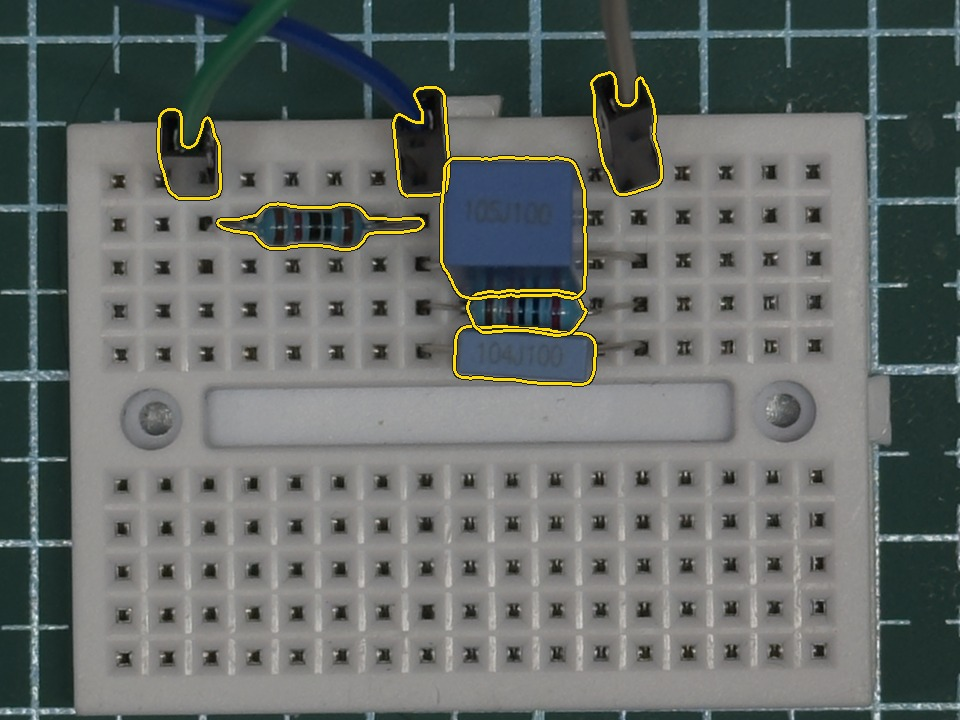
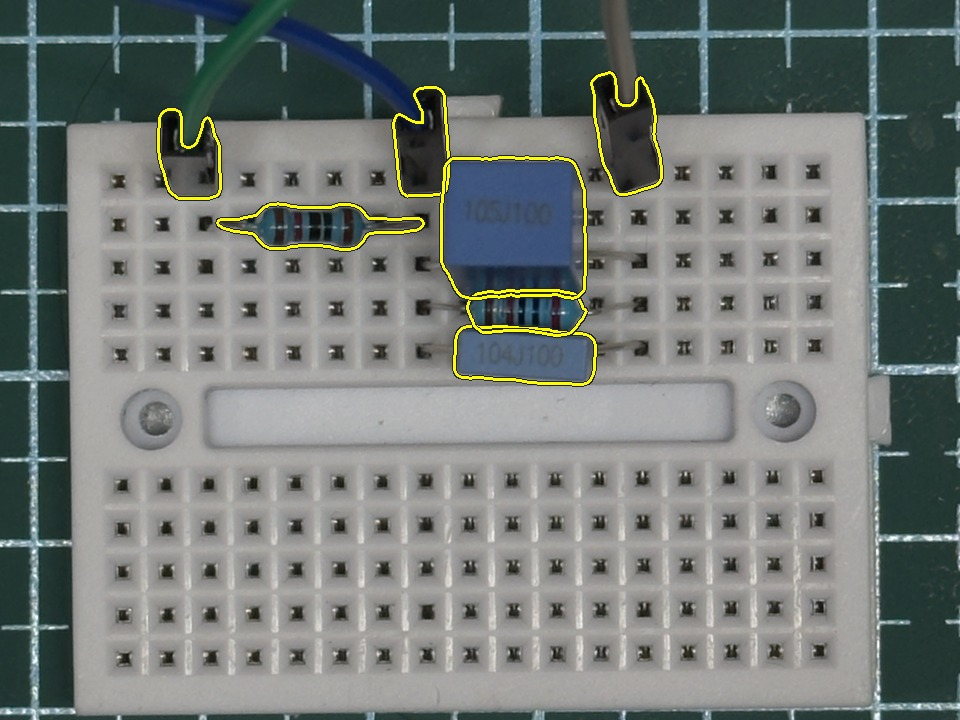
Deploy landing round 4 from 95f7793
Scoreboard strip, one block per case, The bench section, Built section; phone layout fix.

Claude-Session: https://claude.ai/code/session_016yJ6onsusv49FZT69Jxk9m

diff --git a/index.html b/index.html
@@ -13,13 +13,13 @@
 <body>
 <header class="bar">
   <a class="brand" href="index.html"><img src="assets/mark.svg" alt=""> BenchMate</a>
-  <nav><a href="#replays">Replays</a><a href="#cases">Cases</a><a href="#how" class="lng">How it works</a><a href="https://github.com/bami-codes/BenchMate">GitHub</a></nav>
+  <nav><a href="#cases">Cases</a><a href="#bench">The bench</a><a href="#how" class="lng">How it works</a><a href="#built">Built</a><a href="https://github.com/bami-codes/BenchMate">GitHub</a></nav>
 </header>
 
 <section class="claim claim-top" aria-label="What this is">
   <h1>The drawing is right. The board is right. <span class="wrong">The output is wrong.</span></h1>
-  <p>BenchMate finds where a real circuit disagrees with its schematic. Muse Spark reads the drawing and designs experiments on the real board until only one explanation is left.</p>
-  <div class="ctas"><a class="btn" id="cta-replay" href="run.html">Watch Spark find out why</a><a class="btn ghost" href="#cases" id="cta-cases">See the cases</a></div>
+  <p>BenchMate gives Muse Spark a real bench. It reads the schematic, chooses experiments on the real circuit, must forecast each one before an Arduino measures it, and keeps crossing out explanations until one is left. Five faults were planted on five boards and sealed; the model found where each board disagreed with its drawing, and every step is a record you can check.</p>
+  <div class="ctas"><a class="btn" id="cta-replay" href="run.html">Watch Spark find out why</a><a class="btn ghost" href="#cases" id="cta-cases">See the five cases</a></div>
 </section>
 
 <section class="hero" aria-label="The scope">
@@ -32,21 +32,86 @@
 
 <section class="claim claim-under"><div class="small" id="hero-caption" style="opacity:.9"></div></section>
 
-<section class="section" id="replays">
+<section class="section" id="score" hidden>
   <div class="paper">
-    <h2>Watch a diagnosis</h2>
-    <p class="lede">Recorded runs on the real bench, replayed from their logs in order. Before each measurement the dashed forecasts are drawn; then the measured trace sweeps over them and the needles move. Click any number for the log event behind it.</p>
-    <div class="cases" id="replay-list"></div>
+    <h2>Counted from the records</h2>
+    <p class="lede" id="score-note"></p>
+    <div class="score" id="score-grid"></div>
+    <p class="small muted" id="score-foot" style="margin-top:10px"></p>
   </div>
 </section>
 
 <section class="section" id="cases">
   <div class="paper">
-    <h2 id="cases-h">Cases from real forum threads</h2>
+    <h2 id="cases-h">Five cases from real forum threads</h2>
     <p class="small muted" id="cases-count"></p>
-    <p class="lede">Each case rebuilds a problem whose cause was settled in the thread, scaled to the bench: the first power-on moment, when the drawing is right and the board still misbehaves. Every case has its own circuit on the mini board and its own drawing; all use the same procedure, the same test menu and the same fixture.</p>
+    <p class="lede">Each case rebuilds a problem whose cause was settled in the thread, scaled to the bench: the first power-on moment, when the drawing is right and the board still misbehaves. Every case has its own circuit on the mini board and its own drawing; all use the same procedure, the same test menu and the same fixture. Each replay is a recorded run played back from its log in order: the dashed forecasts are drawn, then the measured trace sweeps over them and the needles move. Click any number for the log event behind it.</p>
     <div class="cases" id="case-list"></div>
+    <div id="dev-records"></div>
     <div id="policy" class="small muted" style="margin-top:12px"></div>
+  </div>
+</section>
+
+<section class="section" id="bench">
+  <div class="paper">
+    <h2>The bench</h2>
+    <p class="lede">One Arduino, two op-amp followers, a reference, and a mini board that holds the circuit under test. About $40 of parts. The model never touches it: it asks, the operator moves one jumper, the Arduino measures.</p>
+    <div class="bench-grid">
+      <figure class="bench-photo">
+        <img src="assets/photos/bench-full.jpg" alt="The whole bench from above: an Arduino UNO R4 Minima at the top right, the instrument breadboard with two LM358 followers across the middle, and the mini board under test at the bottom, all on a cutting mat" loading="lazy">
+        <figcaption class="small muted">The whole bench, photographed from above. Arduino UNO R4 Minima (top right), the instrument board (middle), the mini board under test (bottom). Brightened uniformly for the page; nothing else edited (<code>tools/photos-bench.json</code>).</figcaption>
+      </figure>
+      <div class="bench-side">
+        <div class="bench-diagram" aria-label="Signal chain of the bench">
+          <svg viewBox="0 0 760 300" role="img" aria-label="Signal chain: Muse Spark chooses; the engine forecasts; the Arduino drives IN through a follower and a 1 kΩ resistor, the mini board's OUT comes back through a follower to the ADC, REF is a buffered 1.63 V; the operator moves one jumper and takes one multimeter reading when asked.">
+            <defs><marker id="ar" viewBox="0 0 10 10" refX="9" refY="5" markerWidth="7" markerHeight="7" orient="auto-start-reverse"><path d="M0 0L10 5 0 10z" fill="#4b535a"/></marker></defs>
+            <g font-family="Archivo Narrow, Arial, sans-serif" font-size="13" fill="#171b1e">
+              <rect x="14" y="18" width="150" height="54" rx="6" fill="#efe8ff" stroke="#7a4fd6" stroke-width="1.5"/>
+              <text x="89" y="40" text-anchor="middle" font-weight="600">Muse Spark 1.3</text><text x="89" y="58" text-anchor="middle" font-size="12" fill="#4b535a">chooses the experiment</text>
+              <rect x="196" y="18" width="150" height="54" rx="6" fill="#f0f0ea" stroke="#171b1e" stroke-width="1.5"/>
+              <text x="271" y="40" text-anchor="middle" font-weight="600">Fit engine · ngspice</text><text x="271" y="58" text-anchor="middle" font-size="12" fill="#4b535a">forecast, hash, push</text>
+              <rect x="378" y="18" width="150" height="54" rx="6" fill="#e3ecf7" stroke="#2b6bdc" stroke-width="1.5"/>
+              <text x="453" y="40" text-anchor="middle" font-weight="600">Arduino UNO R4</text><text x="453" y="58" text-anchor="middle" font-size="12" fill="#4b535a">DAC out · 14-bit ADC in</text>
+              <rect x="560" y="18" width="186" height="54" rx="6" fill="#fff6d6" stroke="#c9a227" stroke-width="1.5"/>
+              <text x="653" y="40" text-anchor="middle" font-weight="600">Operator</text><text x="653" y="58" text-anchor="middle" font-size="12" fill="#4b535a">one jumper · one DMM reading, when asked</text>
+              <line x1="164" y1="45" x2="196" y2="45" stroke="#4b535a" stroke-width="1.5" marker-end="url(#ar)"/>
+              <line x1="346" y1="45" x2="378" y2="45" stroke="#4b535a" stroke-width="1.5" marker-end="url(#ar)"/>
+              <line x1="528" y1="45" x2="560" y2="45" stroke="#4b535a" stroke-width="1.5" stroke-dasharray="4 3" marker-end="url(#ar)"/>
+              <!-- analogue chain -->
+              <text x="14" y="118" font-size="12" fill="#4b535a" font-weight="600">Analogue chain, 0–5 V, USB power only</text>
+              <rect x="14" y="132" width="78" height="40" rx="5" fill="#fff" stroke="#171b1e" stroke-width="1.5"/><text x="53" y="151" text-anchor="middle" font-weight="600">DAC</text><text x="53" y="165" text-anchor="middle" font-size="11" fill="#4b535a">step or sine</text>
+              <polygon points="112,134 112,170 146,152" fill="#fff" stroke="#171b1e" stroke-width="1.5"/><text x="129" y="188" text-anchor="middle" font-size="11" fill="#4b535a">LM358</text>
+              <rect x="166" y="144" width="54" height="16" fill="#fff" stroke="#171b1e" stroke-width="1.5"/><text x="193" y="137" text-anchor="middle" font-size="11.5">1 kΩ</text>
+              <line x1="92" y1="152" x2="112" y2="152" stroke="#171b1e" stroke-width="1.5"/><line x1="146" y1="152" x2="166" y2="152" stroke="#171b1e" stroke-width="1.5"/><line x1="220" y1="152" x2="262" y2="152" stroke="#1f9a52" stroke-width="3"/>
+              <circle cx="248" cy="152" r="4" fill="#1f9a52"/><text x="248" y="140" text-anchor="middle" font-size="12" font-weight="600" fill="#1f9a52">IN</text>
+              <rect x="262" y="118" width="206" height="68" rx="6" fill="#f6f7f4" stroke="#8c939a" stroke-width="1.5" stroke-dasharray="5 4"/>
+              <text x="365" y="141" text-anchor="middle" font-weight="600">mini board under test</text><text x="365" y="159" text-anchor="middle" font-size="12" fill="#4b535a">the circuit the drawing shows,</text><text x="365" y="174" text-anchor="middle" font-size="12" fill="#4b535a">plus one sealed fault</text>
+              <line x1="468" y1="152" x2="520" y2="152" stroke="#2b6bdc" stroke-width="3"/><circle cx="482" cy="152" r="4" fill="#2b6bdc"/><text x="482" y="140" text-anchor="middle" font-size="12" font-weight="600" fill="#2b6bdc">OUT</text>
+              <polygon points="520,134 520,170 554,152" fill="#fff" stroke="#171b1e" stroke-width="1.5"/><text x="537" y="188" text-anchor="middle" font-size="11" fill="#4b535a">LM358</text>
+              <line x1="554" y1="152" x2="580" y2="152" stroke="#171b1e" stroke-width="1.5"/>
+              <rect x="580" y="132" width="78" height="40" rx="5" fill="#fff" stroke="#171b1e" stroke-width="1.5"/><text x="619" y="151" text-anchor="middle" font-weight="600">ADC</text><text x="619" y="165" text-anchor="middle" font-size="11" fill="#4b535a">512 frames / 0.5 ms</text>
+              <text x="705" y="148" font-size="11.5" fill="#4b535a">IN, OUT and</text><text x="705" y="162" font-size="11.5" fill="#4b535a">REF, every run</text>
+              <!-- REF -->
+              <line x1="365" y1="186" x2="365" y2="222" stroke="#8b949b" stroke-width="3"/>
+              <line x1="120" y1="222" x2="660" y2="222" stroke="#8b949b" stroke-width="3"/>
+              <circle cx="365" cy="222" r="4" fill="#8b949b"/>
+              <text x="120" y="244" font-size="12" font-weight="600" fill="#5b646b">REF · a buffered 1.63 V, not ground</text>
+              <text x="120" y="260" font-size="11.5" fill="#4b535a">the bench watches its own reference on every capture and stops the run if it drifts more than 3 mV</text>
+              <rect x="470" y="196" width="118" height="20" rx="4" fill="#fff" stroke="#8b949b" stroke-width="1.2" stroke-dasharray="4 3"/><text x="529" y="210" text-anchor="middle" font-size="11" fill="#4b535a">9.99 kΩ load, on request</text>
+              <text x="14" y="290" font-size="11.5" fill="#4b535a">Every explanation is a circuit model; the engine simulates it with the measured IN and forecasts OUT. A miss above 9 mV, whole step or any region, rules it out.</text>
+            </g>
+          </svg>
+        </div>
+        <dl class="kv small bench-kv">
+          <dt>Source</dt><dd>Arduino UNO R4 Minima DAC through an LM358 follower and a 1 kΩ drive resistor. Steps of ±0.2 / ±0.5 V and sines of 1–5 Hz, from a fixed menu Spark picks from.</dd>
+          <dt>Recorder</dt><dd>14-bit ADC, 512 frames per capture at 0.5 ms, three channels: IN, buffered OUT, REF. Captures are rejected across reboots; each run starts from a fresh boot id.</dd>
+          <dt>Reference</dt><dd>A buffered divider near 1.63 V is the return for the circuit under test. A guard checks it on every capture; a drift above 3 mV stops the run and nothing is scored.</dd>
+          <dt>Allowance</dt><dd>9 mV RMS between forecast and measurement, on the whole step and on every region of it. Frozen before the first run and never changed.</dd>
+          <dt>Operator</dt><dd>Connects or removes the 9.99 kΩ load when Spark asks, USB off; takes one multimeter reading when Spark asks; never tells the model what the fault is.</dd>
+          <dt>Cost</dt><dd>About ₩56,000 ($40) of parts including spares, plus a multimeter. <a href="https://github.com/bami-codes/BenchMate/blob/main/docs/build-your-own.md">Build notes</a>.</dd>
+        </dl>
+      </div>
+    </div>
   </div>
 </section>
 
@@ -71,20 +136,26 @@
   <div class="paper">
     <h2>Who does what</h2>
     <dl class="who">
-      <dt>Muse Spark 1.3 vision</dt><dd>Reads the schematic into parts, values and connections, with a box per part.</dd>
-      <dt>Muse Spark 1.3</dt><dd>Chooses every experiment from the fixed menu and says why; asks for the bench to be rewired; decides when to ask for the check; may propose a part the drawing lacks.</dd>
-      <dt>Fit engine, ngspice</dt><dd>Fits each explanation to the measurements and forecasts the next one. Compares forecasts with the bench by RMS miss.</dd>
-      <dt>Bench, Arduino UNO R4</dt><dd>Two LM358 buffers, a 1 kΩ drive resistor, a 1.63 V reference and four ADC channels. A reference guard stops a run when the bench itself drifts.</dd>
-      <dt>SAM 3.1 + Muse Spark vision</dt><dd>After the diagnosis: SAM 3.1 segments the mini board photo; Spark vision is asked which body is which drawn part, and a person confirms. When it names none (case 02), the bodies are read without a pairing and the bands frozen first decide which is which. No part values are read from the photo; values come from readings at the bench, forecast first.</dd>
+      <dt>Muse Spark 1.3 vision</dt><dd>Reads the schematic into parts, values and connections, with a box per part. After the diagnosis, looks at the board photo with SAM 3.1's bodies and says which body is the part to read (cases 01, 03, 05), or that it cannot tell (case 02).</dd>
+      <dt>Muse Spark 1.3 agent</dt><dd>Chooses every experiment from the fixed menu and says why; asks for the bench to be rewired; decides when to ask for the check; proposes a part the drawing lacks when every value explanation has failed (cases 04, 05); chooses which part to read and which quantity (cases 01, 02, 03, 05).</dd>
+      <dt>SAM 3.1</dt><dd>Segments the mini board photo into bodies with one generic prompt, after the diagnosis. Its masks are shown as drawn; no part value is read from the photo, ever.</dd>
+      <dt>Fit engine, ngspice</dt><dd>Fits each explanation to the measurements and forecasts the next one. Compares forecasts with the bench by RMS miss. Freezes and publishes before every scored measurement.</dd>
+      <dt>Bench, Arduino UNO R4</dt><dd>Two LM358 buffers, a 1 kΩ drive resistor, a 1.63 V reference and the ADC channels. A reference guard stops a run when the bench itself drifts.</dd>
+      <dt>Operator</dt><dd>Builds the circuit with the sealed fault, moves one jumper when asked, reads one value when asked, and never tells the model what is wrong.</dd>
     </dl>
   </div>
 </section>
 
-<section class="section" id="score" hidden>
+<section class="section" id="built">
   <div class="paper">
-    <h2>Counted from the records</h2>
-    <p class="lede" id="score-note"></p>
-    <div class="score" id="score-grid"></div>
+    <h2>Built during the hackathon</h2>
+    <p class="lede">Everything on this page was made between 27 October and 4 November 2026 by one person and two coding agents: the instrument firmware, the bench, the fit engine, the Spark tool loop, the reading and seal protocol, the photo stage, this site, and the five physical runs themselves. The first commit is the start of the project.</p>
+    <div class="built-grid">
+      <div><h3>Meta models</h3><p class="small">Muse Spark 1.3 (agent and vision) through the Meta Model API for every experiment choice, structure proposal, schematic read and body call; SAM 3.1 for every board segmentation. 101 Spark calls and 6 SAM calls across the five cases, about $1.01.</p></div>
+      <div><h3>What is new</h3><p class="small">The model is not asked to explain a measurement someone made. It designs the measurement, commits to its forecast first, and is scored by code against a fault it was never told. The experiments did not exist until the model asked for them.</p></div>
+      <div><h3>What is not claimed</h3><p class="small">Five completed cases are not an accuracy rate. Failed and abstained attempts are kept in the public ledger and named on the reports. Restored reruns show "no mismatch in the tests Spark chose", not a proof that every part is correct. The cases were known to the developers; this is not a blind test.</p></div>
+      <div><h3>Open</h3><p class="small">MIT-licensed repository with every event log, forecast hash, Spark request and verifier: <a href="https://github.com/bami-codes/BenchMate">github.com/bami-codes/BenchMate</a>. <code>python -m benchmate verify &lt;run folder&gt;</code> re-checks any record offline.</p></div>
+    </div>
   </div>
 </section>
 

diff --git a/assets/landing.js b/assets/landing.js
@@ -1,4 +1,4 @@
-// Landing: the claim, the scope, then the cases. Everything shown is read from data/.
+// Landing: the claim, the scope, the numbers, then the five cases with their recorded runs. Everything shown is read from data/.
 (async () => {
   const { $, el, expName, fmtUSD, fmtDate, schematic, boardSVG, Scope, stepTraces, stepTime, verdictWords, REDUCED, ev } = BM;
   const [cases, index, results, policy] = await Promise.all([BM.loadCases(), BM.loadRuns(), BM.loadResults(), BM.json('data/official-run-policy.json').catch(() => null)]);
@@ -42,51 +42,46 @@
     if (c01?.board) { $('#hero-board').append(boardSVG(c01.board, { crop: true })); $('#hero-board-note').textContent = 'Diagram from the wiring record; photo pending.'; }
   }
 
-  // ---- replays
-  const rl = $('#replay-list');
-  if (!runs.length) rl.append(el('p', { class: 'muted' }, 'No recorded runs yet.'));
-  const ordered = anyCounted ? [...runs.filter(r => r.counted), ...runs.filter(r => !r.counted)] : runs;
-  let devHead = false;
-  for (const r of ordered) {
-    if (anyCounted && !r.counted && !devHead) { devHead = true; rl.append(el('h3', { class: 'group-head' }, 'Development records'), el('p', { class: 'small muted' }, 'Pilots and QA runs that shaped the bench. Not counted, kept in full.')); }
-    const c = cases.cases.find(x => x.id === r.case);
-    const outcome = r.outcome === 'stopped' ? 'stopped by the reference guard' : r.display_caption ? r.display_caption : r.state === 'faulted' && r.survivors?.length === 1 ? (r.verdict === 'structure_supported' ? (r.reading === 'one' ? 'Spark proposed a part the drawing does not show; held-back checks passed; one reading, bands frozen first, placed it; seal opened' : 'Spark proposed a part the drawing does not show; held-back checks passed; seal opened') : r.reading === 'group' ? 'one explanation left after the tests; two readings, bands frozen first, fixed which body; seal opened' : 'one explanation left after one reading; seal opened') : r.verdict ? verdictWords({ verdict: r.verdict, survivors: r.survivors }, {}) : r.outcome;
-    rl.append(el('div', { class: 'case-row', style: 'grid-template-columns:40px minmax(0,1fr) auto' },
-      el('div', { class: 'n' }, r.case),
-      el('div', {}, el('h3', {}, c.title, ' ', el('span', { class: 'small muted' }, `· ${r.label}, ${fmtDate(r.started_utc)}`)),
-        el('p', { class: 'small muted' }, `${r.steps} experiments · ${r.spark_calls} Spark calls · ${fmtUSD(r.spark_cost)} est. · ${outcome}`)),
-      el('div', { class: 'acts' }, el('span', { class: 'badge ' + (r.counted ? 'live' : r.pilot ? 'pilot' : 'pending') }, r.class_label || (r.pilot ? 'Pilot run — not counted' : 'Counted run')),
-        el('a', { class: 'btn sm', href: `run.html?run=${r.id}` }, 'Replay'), el('a', { class: 'btn ghost sm', href: `case.html?id=${r.case}&run=${r.id}` }, 'Report'))));
-  }
-
-  // ---- cases: one verified forum line each, the preregistered order and selection rule
-  const cl = $('#case-list');
-  { const withRuns = cases.cases.filter(c => runs.some(r => r.case === c.id)).length; $('#cases-count').textContent = `${cases.cases.length} cases, ${withRuns} with recorded runs.`; }
-  const slotsOf = id => (policy?.ordered_slots || []).filter(s => s.case_id === id);
-  for (const c of cases.cases) {
-    const rs = runs.filter(r => r.case === c.id);
-    const thumb = el('div', { class: 'thumb' }); thumb.append(await schematic(c.design));
-    const counted = rs.filter(r => r.counted);
-    const status = counted.length ? el('span', { class: 'badge live' }, `${counted.length} counted run${counted.length > 1 ? 's' : ''}`) : rs.length ? el('span', { class: 'badge pilot' }, 'Pilot run — not counted') : el('span', { class: 'badge pending' }, 'Not run yet');
-    const slots = slotsOf(c.id);
-    cl.append(el('div', { class: 'case-row' },
-      el('div', { class: 'n' }, c.id), thumb,
-      el('div', {}, el('h3', {}, c.title), el('p', {}, c.symptom || c.problem), el('p', { class: 'src' }, 'Source: ', el('a', { href: c.source.url, target: '_blank', rel: 'noopener' }, `${c.source.site}: ${c.source.title}`), c.source.date ? `, ${c.source.date.slice(0, 7)}` : ''),
-        slots.length ? el('p', { class: 'small faint' }, `Official slots: ${slots.map(s => { const done = rs.find(r => r.counted && r.state === s.state); return `${s.slot_id} (${s.state}, ${done ? 'completed' : s.status.replace(/_/g, ' ')})`; }).join(', ')}${c.id === policy?.selection?.structure_spotlight?.priority?.[0]?.slice(0, 2) ? ' · structure-proposal spotlight, first priority' : c.id === policy?.selection?.structure_spotlight?.priority?.[1]?.slice(0, 2) ? ' · structure-proposal spotlight, second priority' : ''}`) : null),
-      el('div', { class: 'acts' }, status, rs.length ? el('a', { class: 'btn sm', href: `run.html?run=${BM.defaultRun(runs, c.id).id}` }, 'Replay') : null, el('a', { class: 'btn ghost sm', href: `case.html?id=${c.id}` }, 'Report'))));
-  }
-  if (policy) {
-    const shown = cases.cases.map(c => c.id); const order = (policy.case_order || []).filter(id => shown.includes(id));
-    $('#policy').append(el('p', {}, `The order of the cases and the demo selection rule were registered before any official result (${policy.cohort_plan_id}, ${policy.created_local_date}); the cases ran ${order.join(' → ')}, each a fault run then a restored rerun. ${policy.display_rule_2026_11_04 ? policy.display_rule_2026_11_04.text + ' ' : `each case page shows the first started official attempt for that state, whatever its outcome. ${policy.selection_rule ? policy.selection_rule + '. ' : ''}`}Where a restored attempt reached a verdict other than consistency, the counted later attempt is shown and the earlier one is named on the report. Case 01 was known to the developers and is not a blind test. Runs made while the pipeline was still being built are development records and are never counted.`));
-  }
-
-  // ---- verify box (short)
-  $('#verify-short').append(el('h3', {}, 'Verify it yourself'), el('p', { class: 'small muted' }, 'Every run is an append-only event log; each event carries its sha256 and the previous one. On any replay, click a number to see its event. In the repository, ', el('code', {}, 'python -m benchmate verify <run folder>'), ' prints PASS or FAIL and the number of events checked: the full hash chain, the frozen-forecast hashes and the forecast → measurement order, including the physical CAPTURE order. It proves the record’s internal integrity and order, not when it was written. Details: docs/2026-11-03-offline-verification.md.'));
-
   // ---- scoreboard: hidden until official result files exist
   if (results && results.official_runs?.length) {
     $('#score').hidden = false;
-    $('#score-note').textContent = `${results.official_runs.length} official runs, scored by code against the sealed faults. Updated ${fmtDate(results.updated_utc)}.`;
+    $('#score-note').textContent = `${results.official_runs.length} official runs on the real bench, scored by code against the sealed faults. Updated ${fmtDate(results.updated_utc)}.`;
     for (const m of results.metrics) $('#score-grid').append(el('div', { class: 'k' }, el('b', {}, m.value ?? '—'), el('span', {}, m.label)));
+    $('#score-foot').textContent = 'Counts, not a rate: every attempt is in the public ledger, including the ones that stopped, abstained or were miswired; the reports name them. Costs are estimates from recorded tokens at the published rates.';
   }
+
+  // ---- the cases: one row per case with its recorded runs (fault run, restored rerun), in case order
+  const cl = $('#case-list');
+  const counted = runs.filter(r => r.counted);
+  { const withRuns = cases.cases.filter(c => counted.some(r => r.case === c.id)).length; $('#cases-count').textContent = `${cases.cases.length} cases, ${withRuns} with official runs, ${counted.length} official runs in all.`; }
+  const outcomeLine = (r) => r.outcome === 'stopped' ? 'stopped by the reference guard' : r.display_caption ? r.display_caption : r.state === 'faulted' && r.survivors?.length === 1 ? (r.verdict === 'structure_supported' ? (r.reading === 'one' ? 'Spark proposed a part the drawing does not show; held-back checks passed; one reading, bands frozen first, placed it; seal opened' : 'Spark proposed a part the drawing does not show; held-back checks passed; seal opened') : r.reading === 'group' ? 'one explanation left after the tests; two readings, bands frozen first, fixed which body; seal opened' : 'one explanation left after one reading; seal opened') : r.verdict ? verdictWords({ verdict: r.verdict, survivors: r.survivors }, {}) : r.outcome;
+  const runLine = (r) => el('div', { class: 'run-line' },
+    el('a', { class: 'btn sm' + (r.state === 'restored' ? ' ghost' : ''), href: `run.html?run=${r.id}` }, r.state === 'restored' ? 'Restored rerun' : 'Replay the diagnosis'),
+    el('span', { class: 'small' }, el('b', {}, r.label), ` · ${fmtDate(r.started_utc)} · ${r.steps} experiments · ${r.spark_calls} Spark calls${r.sam_calls ? ` · ${r.sam_calls} SAM` : ''} · ${fmtUSD(r.spark_cost)} est.`, el('span', { class: 'muted' }, ` — ${outcomeLine(r)}`)),
+    el('a', { class: 'small rep', href: `case.html?id=${r.case}&run=${r.id}` }, 'Report'));
+  for (const c of cases.cases) {
+    const rs = counted.filter(r => r.case === c.id).sort((a, b) => a.started_utc < b.started_utc ? -1 : 1);
+    const thumb = el('div', { class: 'thumb' }); thumb.append(await schematic(c.design));
+    const status = rs.length ? el('span', { class: 'badge live' }, rs[0].class_label || 'Official run') : el('span', { class: 'badge pending' }, 'Not run yet');
+    cl.append(el('div', { class: 'case-row case-block' },
+      el('div', { class: 'n' }, c.id), thumb,
+      el('div', {}, el('h3', {}, c.title), el('p', {}, c.symptom || c.problem), el('p', { class: 'src' }, 'Source: ', el('a', { href: c.source.url, target: '_blank', rel: 'noopener' }, `${c.source.site}: ${c.source.title}`), c.source.date ? `, ${c.source.date.slice(0, 7)}` : ''),
+        el('div', { class: 'runs' }, ...rs.map(runLine))),
+      el('div', { class: 'acts' }, status)));
+  }
+  // development records: pilots and QA runs, not counted, kept in full
+  const dev = runs.filter(r => !r.counted);
+  if (anyCounted && dev.length) {
+    const box = $('#dev-records');
+    box.append(el('h3', { class: 'group-head' }, 'Development records'), el('p', { class: 'small muted' }, 'Pilots that shaped the bench before the pipeline was frozen. Not counted, kept in full.'));
+    for (const r of dev) { const c = cases.cases.find(x => x.id === r.case);
+      box.append(el('div', { class: 'run-line dev' }, el('a', { class: 'btn ghost sm', href: `run.html?run=${r.id}` }, 'Replay'), el('span', { class: 'small' }, el('b', {}, `Case ${r.case} · ${r.label}`), ` · ${fmtDate(r.started_utc)} · ${r.steps} experiments · ${r.spark_calls} Spark calls · ${fmtUSD(r.spark_cost)} est.`, el('span', { class: 'muted' }, ` — ${outcomeLine(r)}`)), el('span', { class: 'badge pilot' }, r.class_label || 'Pilot run — not counted'), el('a', { class: 'small rep', href: `case.html?id=${r.case}&run=${r.id}` }, 'Report'))); }
+  }
+  if (policy) {
+    const shown = cases.cases.map(c => c.id); const order = (policy.case_order || []).filter(id => shown.includes(id));
+    $('#policy').append(el('p', {}, `The order of the cases and the demo selection rule were registered before any official result (${policy.cohort_plan_id}, ${policy.created_local_date}); the cases ran ${order.join(' → ')}, each a fault run then a restored rerun. ${policy.display_rule_2026_11_04 ? policy.display_rule_2026_11_04.text + ' ' : `each case page shows the first started official attempt for that state, whatever its outcome. ${policy.selection_rule ? policy.selection_rule + '. ' : ''}`}Where a restored attempt reached a verdict other than consistency, the counted later attempt is shown and the earlier one is named on the report. The cases were known to the developers; this is not a blind test. Runs made while the pipeline was still being built are development records and are never counted.`));
+  }
+
+  // ---- verify box (short)
+  $('#verify-short').append(el('h3', {}, 'Verify it yourself'), el('p', { class: 'small muted' }, 'Every run is an append-only event log; each event carries its sha256 and the previous one. On any replay, click a number to see its event. In the repository, ', el('code', {}, 'python -m benchmate verify <run folder>'), ' prints PASS or FAIL and the number of events checked: the full hash chain, the frozen-forecast hashes and the forecast → measurement order, including the physical CAPTURE order. It proves the record’s internal integrity and order, not when it was written; the forecast commits on GitHub carry the time. Details: docs/2026-11-03-offline-verification.md.'));
 })();

diff --git a/assets/v3.css b/assets/v3.css
@@ -429,3 +429,21 @@ footer a{color:#fff}
 @media (max-width:480px){.assign-table{display:table;width:100%}.assign-table thead{display:none}.assign-table tr{display:block;padding:6px 0;border-bottom:1px solid var(--rule)}.assign-table td{display:block;padding:2px 0;border:0}}
 /* a label beside a body, outside it: arrow points left at the outline */
 .photo .masklabel.side{transform:translate(0,-50%)}.photo .masklabel.side::before{left:-5px;top:50%;transform:translateY(-50%);border:5px solid transparent;border-left:0;border-right-color:#1b1f24;border-bottom-color:transparent}
+
+/* ---------- landing round 4: one block per case with its runs; the bench; built ---------- */
+.case-block{align-items:start}
+.case-block .runs{margin-top:10px;display:flex;flex-direction:column;gap:6px}
+.run-line{display:flex;align-items:center;gap:10px;flex-wrap:wrap;padding:6px 8px;border-radius:var(--radius);background:var(--paper-2)}
+.run-line .btn{flex:none}
+.run-line .rep{margin-left:auto;color:var(--out)}
+.run-line.dev{margin-top:6px;background:transparent;border:1px dashed var(--rule)}
+.bench-grid{display:grid;grid-template-columns:minmax(0,420px) minmax(0,1fr);gap:22px;align-items:start;margin-top:8px}
+@media (max-width:900px){.bench-grid{grid-template-columns:1fr}}
+.bench-photo{margin:0}.bench-photo img{display:block;width:100%;height:auto;border-radius:6px;border:1px solid var(--rule)}
+.bench-photo figcaption{margin-top:6px}
+.bench-diagram{background:#fff;border:1px solid var(--rule);border-radius:6px;padding:8px}
+.bench-diagram svg{display:block;width:100%;height:auto}
+.bench-kv{margin-top:12px;grid-template-columns:96px minmax(0,1fr)}
+.built-grid{display:grid;grid-template-columns:repeat(auto-fit,minmax(230px,1fr));gap:16px 22px;margin-top:10px}
+.built-grid h3{font-size:16px;margin-bottom:4px}
+@media (max-width:760px){.case-row > :not(.n){grid-column:2}.case-row .n{grid-column:1;grid-row:1}.case-row .acts{justify-content:flex-start}}

diff --git a/case.html b/case.html
@@ -12,7 +12,7 @@
 <body>
 <header class="bar">
   <a class="brand" href="index.html"><img src="assets/mark.svg" alt=""> BenchMate</a>
-  <nav><a href="index.html#replays">Replays</a><a href="index.html#cases">Cases</a><a href="https://github.com/bami-codes/BenchMate">GitHub</a></nav>
+  <nav><a href="index.html#cases">Cases</a><a href="https://github.com/bami-codes/BenchMate">GitHub</a></nav>
 </header>
 <main class="report">
   <div class="paper" id="report"><p class="muted">Loading…</p></div>

diff --git a/run.html b/run.html
@@ -13,7 +13,7 @@
 <body>
 <header class="bar">
   <a class="brand" href="index.html"><img src="assets/mark.svg" alt=""> BenchMate</a>
-  <nav><a href="index.html#replays">Replays</a><a href="index.html#cases">Cases</a><a href="https://github.com/bami-codes/BenchMate">GitHub</a></nav>
+  <nav><a href="index.html#cases">Cases</a><a href="https://github.com/bami-codes/BenchMate">GitHub</a></nav>
 </header>
 
 <div class="shelf full" id="shelf">

diff --git a/tools/photo_derivatives.py b/tools/photo_derivatives.py
@@ -12,7 +12,8 @@ For each photo this writes, into assets/photos/:
 and merges the paths, crop box and provenance (source sha256, mask files, method) into tools/photos-caseNN.json.
 
 Framing rule: every photo was taken on the same fixed rig (phone vertical on a stand, mini board centred), so one window
-of the 1200×1600 frame, FRAME = [120, 380, 1080, 1100] (960×720, 4:3), is used for every case and state. Outline rule: a 3 px band just outside the mask, label-tape yellow, with a 1 px
+of the 1200×1600 frame, FRAME = [120, 380, 1080, 1100]
+BRIGHTEN = 1.15  # one uniform brightness lift for every board crop (the bench photos are dark); no colour or local edits (960×720, 4:3), is used for every case and state. Outline rule: a 3 px band just outside the mask, label-tape yellow, with a 1 px
 dark edge on both sides so it reads on the pale board. Masks are the native rasters (exact size, no resize).
 
   python3 tools/photo_derivatives.py            # write derivatives and photos-caseNN.json
@@ -20,7 +21,7 @@ dark edge on both sides so it reads on the pale board. Masks are the native rast
 """
 import argparse, hashlib, json, pathlib
 import numpy as np
-from PIL import Image
+from PIL import Image, ImageEnhance
 
 SITE = pathlib.Path(__file__).resolve().parents[1]
 REPO = SITE.parent
@@ -29,6 +30,7 @@ YELLOW = (255, 221, 0)
 EDGE = (27, 31, 36)
 BAND, EDGE_W = 3, 1
 FRAME = [120, 380, 1080, 1100]
+BRIGHTEN = 1.15  # one uniform brightness lift for every board crop (the bench photos are dark); no colour or local edits
 
 RC = 'examples/reading-cohort/2026-11-03/records'
 C03 = f'{RC}/20261104T051005-fac3d07c86'
@@ -108,7 +110,8 @@ def load_native(native, object_id):
 
 
 def write_jpeg(img, path):
-    img.convert('RGB').save(path, 'JPEG', quality=92, optimize=True, progressive=True)  # no EXIF, no ICC, no metadata
+    img = ImageEnhance.Brightness(img.convert('RGB')).enhance(BRIGHTEN)
+    img.save(path, 'JPEG', quality=92, optimize=True, progressive=True)  # no EXIF, no ICC, no metadata
 
 
 def main():
@@ -122,7 +125,7 @@ def main():
         prov['width'], prov['height'] = 1200, 1600
         prov['method'] = ('tools/photo_derivatives.py: one framing rule (the same 960×720 window of the 1200×1600 frame, FRAME) and one outline rule '
                           f'({BAND} px band just outside each native SAM 3.1 mask, label-tape yellow {YELLOW}, {EDGE_W} px dark edge) for every case; '
-                          'outlines only for masks a record ties to a part or a candidate; pixels of the photo untouched; JPEG q92 without metadata')
+                          f'outlines only for masks a record ties to a part or a candidate; one uniform brightness lift ×{BRIGHTEN} on every crop, no colour or local edits; JPEG q92 without metadata')
         for state, cfg in states.items():
             if cfg.get('input'):
                 src = REPO / cfg['input']; img = Image.open(src).convert('RGB'); src_sha = sha(src)

diff --git a/HANDOFF.md b/HANDOFF.md
@@ -11,8 +11,9 @@ under `site/` is ours. Deadline: submission target 4 Nov 22:00 KST, hard deadlin
 - Live site: https://bami-codes.github.io/BenchMate/ (deployed from `site/` to the gh-pages root;
   the older replay site lives under `/archive/`). Deployed by Codex until the five-case release; from
   then on the GitHub session deploys itself (see §7).
-- `site/index.html` + `assets/landing.js`: landing (hero scope, Drawn / Built tiles, replays, cases,
-  how a run works, who does what, scoreboard from `data/results.json`).
+- `site/index.html` + `assets/landing.js`: landing (claim, hero scope, Drawn / Built tiles, the scoreboard strip from
+  `data/results.json`, one block per case with its fault replay and restored rerun, development records, the bench
+  section, how a run works, who does what, built during the hackathon).
 - `site/run.html` + `assets/replay.js`: the replay (instrument shelf + lab notebook). `?run=<id>`,
   `?t=<seconds>`. The shelf collapses (toggle + auto on scroll, state in localStorage).
 - `site/case.html` + `assets/report.js`: the post-run report (dossier) per run.
@@ -33,6 +34,10 @@ under `site/` is ours. Deadline: submission target 4 Nov 22:00 KST, hard deadlin
   `tools/photos-case0N.json`. `case01-board-crop-full.png` / `case04-board-crop-full.png` are the clean
   hero/Built crops from the full-resolution renders; `case01-reading-evidence.png` is the DMM evidence image
   linked from the evidence popover only.
+- `assets/photos/bench-full.jpg` + `tools/photos-bench.json`: the whole-bench photo for "The bench" section (from
+  `examples/bench-photos/2026-11-04/full/render.png`, cropped, brightened uniformly, no metadata). The inline SVG signal-chain
+  diagram lives in `index.html`; its facts come from `docs/build-your-own.md` (DAC → LM358 follower → 1 kΩ → IN; OUT →
+  follower → ADC; buffered REF ≈ 1.63 V; 512 frames at 0.5 ms; 3 mV guard; 9 mV allowance; 9.99 kΩ load).
 - `tools/verify-case0N.json`: outputs of the keyless verifiers (run on the public copies), copied into the
   report's "Verify it yourself" box as written.
 - `tools/shots_all.js` (every counted run, both viewports, landing, all reports), `tools/shots*.js`,

diff --git a/DESIGN.md b/DESIGN.md
@@ -75,7 +75,7 @@ drawn only after the seal opens and was never part of the model input.
   restored root record carrying the original pair, the photo-binding follow-up and the reading continuation;
   the pair's local stop before Spark's body call is a notebook entry, not hidden).
 - One photo treatment for every case (`tools/photo_derivatives.py`): the same 960×720 window of the 1200×1600
-  SAM input, pixels untouched; a transparent outline layer (3 px label-tape yellow, 1 px dark edge) drawn only
+  SAM input, one uniform brightness lift, otherwise untouched; a transparent outline layer (3 px label-tape yellow, 1 px dark edge) drawn only
   from native SAM 3.1 masks that a record ties to a part or a candidate; documentary images (every native
   mask) behind a details toggle only. Case 01's yellow crop, case 02's green full-frame contours and Codex's
   green context crops for 03/05 are replaced by this one rule. Provenance per case in `tools/photos-case0N.json`.
@@ -84,3 +84,10 @@ drawn only after the seal opens and was never part of the model input.
   where nearby value-change models also fit, the "What this does not say" card names them.
 - `tools/shots_all.js`: every counted run at 1440 and 390 played at 16× to the verdict, landing and all reports;
   errors.txt must read "none".
+- Landing restructured for the judges' first minute: claim → scope → "Counted from the records" strip → one block per
+  case (fault replay + restored rerun + report, outcome line from the index) → "The bench" (the whole-bench photo,
+  `assets/photos/bench-full.jpg`, cropped and brightened uniformly from Codex's metadata-free render, provenance in
+  `tools/photos-bench.json`, plus an inline SVG of the signal chain and a Source / Recorder / Reference / Allowance /
+  Operator / Cost table) → How a run works → Who does what (Spark vision, Spark agent, SAM 3.1, engine, bench, operator)
+  → Built during the hackathon (dates, Meta models, what is new, what is not claimed, open). The separate "Watch a
+  diagnosis" list is gone: the runs sit under their case, so the numbers read 01–05 once.
